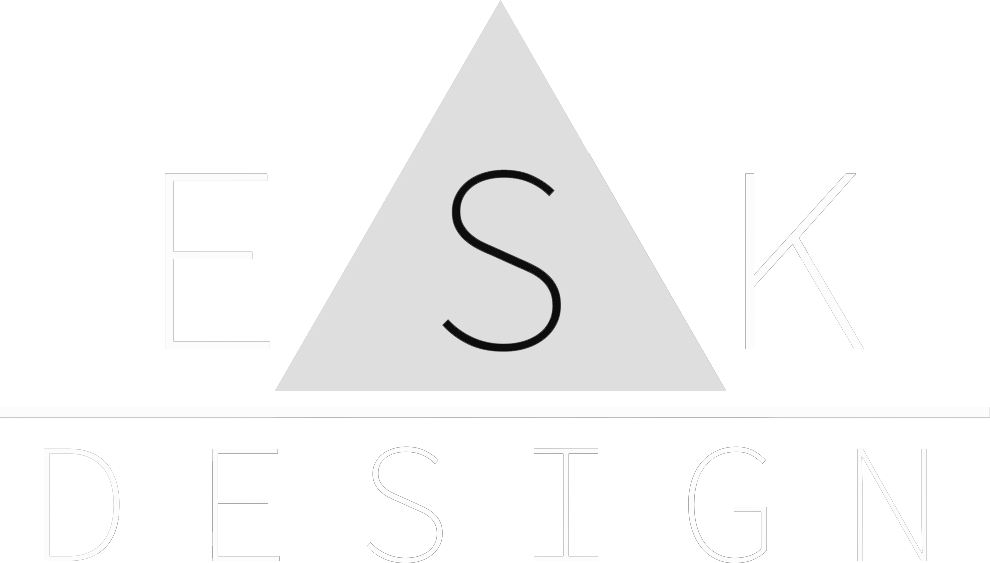
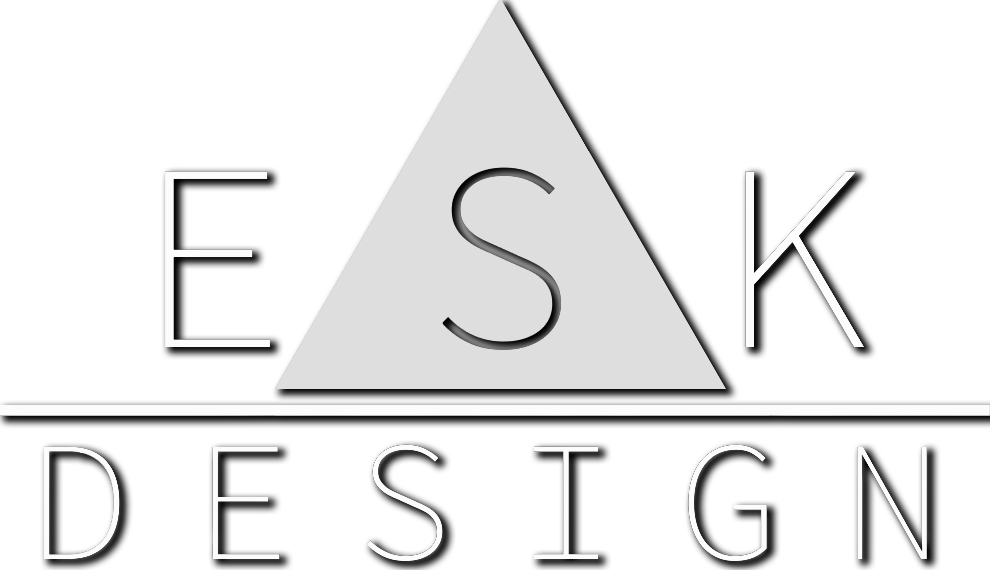
small footer changes
link to top from logo and shadow

diff --git a/portfolio.html b/portfolio.html
@@ -5,7 +5,7 @@
     <link rel="stylesheet" type="text/css" href="style.css">
     <link rel=icon href=img/favicon.png type="image/png">
   </head>
-  
+  <a name="top"></a>
   <body>
     <div class="backg">
     <img class="banner" src="img/banner1.jpg" alt="banner">
@@ -83,7 +83,7 @@
                 </a>
             </div>
             <div class="logocenter">
-                <img class="footlogo" src="img/footer1.png" alt="footer">
+                <a href="#top"><img class="footlogo" src="img/footer1.png" alt="footer"></a>
             </div>
             <div class="logocenter">
                 <a href="http://www.instagram.com"><img class="sociallink" src="img/instagram.png" alt="footer">

diff --git a/contact.html b/contact.html
@@ -5,7 +5,7 @@
     <link rel="stylesheet" type="text/css" href="style.css">
     <link rel=icon href=img/favicon.png type="image/png">
   </head>
-  
+  <a name="top"></a>
     <body>
         
         <!--begin top image code-->
@@ -84,7 +84,7 @@
                 </a>
             </div>
             <div class="logocenter">
-                <img class="footlogo" src="img/footer1.png" alt="footer">
+                <a href="#top"><img class="footlogo" src="img/footer1.png" alt="footer"></a>
             </div>
             <div class="logocenter">
                 <a href="http://www.instagram.com"><img class="sociallink" src="img/instagram.png" alt="footer">

diff --git a/team.html b/team.html
@@ -5,7 +5,7 @@
     <link rel="stylesheet" type="text/css" href="style.css">
     <link rel=icon href=img/favicon.png type="image/png">
   </head>
-  
+  <a name="top"></a>
   <body>
   
    <div class="backg">
@@ -84,7 +84,7 @@
                 </a>
             </div>
             <div class="logocenter">
-                <img class="footlogo" src="img/footer1.png" alt="footer">
+                <a href="#top"><img class="footlogo" src="img/footer1.png" alt="footer"></a>
             </div>
             <div class="logocenter">
                 <a href="http://www.instagram.com"><img class="sociallink" src="img/instagram.png" alt="footer">

diff --git a/index.html b/index.html
@@ -5,7 +5,7 @@
     <link rel="stylesheet" type="text/css" href="style.css">
     <link rel=icon href=img/favicon.png type="image/png">
   </head>
-  
+  <a name="top"></a>
   <body>
   
   <div class="backg">
@@ -96,7 +96,7 @@
                 </a>
             </div>
             <div class="logocenter">
-                <img class="footlogo" src="img/footer1.png" alt="footer">
+                <a href="#top"><img class="footlogo" src="img/footer1.png" alt="footer"></a>
             </div>
             <div class="logocenter">
                 <a href="http://www.instagram.com"><img class="sociallink" src="img/instagram.png" alt="footer">

diff --git a/services.html b/services.html
@@ -5,7 +5,7 @@
     <link rel="stylesheet" type="text/css" href="style.css">
     <link rel=icon href=img/favicon.png type="image/png">
   </head>
-  
+  <a name="top"></a>
   <body>
   
   <div class="backg">
@@ -86,7 +86,7 @@
                 </a>
             </div>
             <div class="logocenter">
-                <img class="footlogo" src="img/footer1.png" alt="footer">
+                <a href="#top"><img class="footlogo" src="img/footer1.png" alt="footer"></a>
             </div>
             <div class="logocenter">
                 <a href="http://www.instagram.com"><img class="sociallink" src="img/instagram.png" alt="footer">
